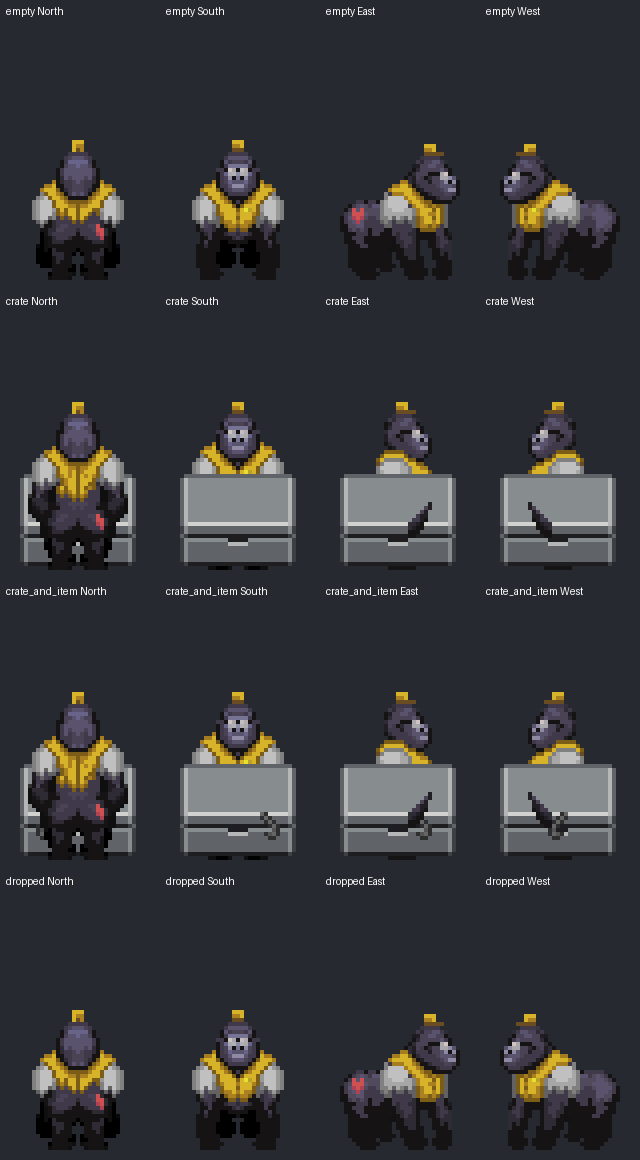
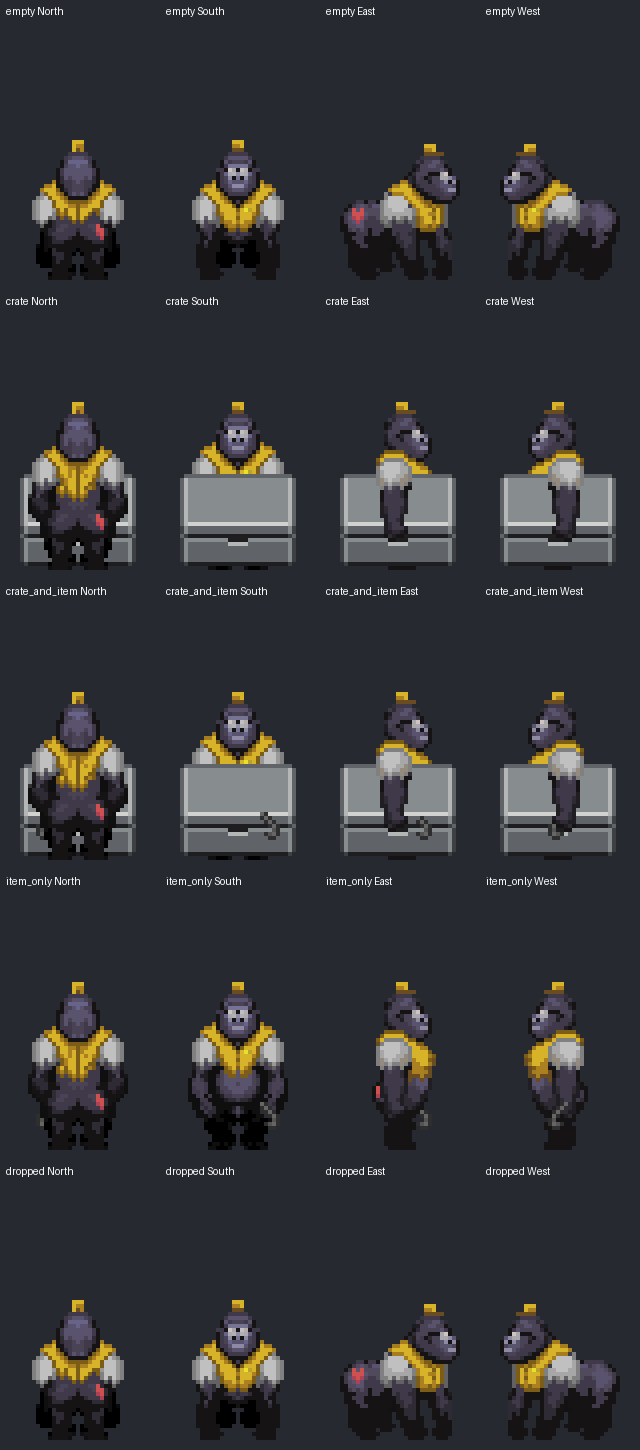
Fix cargorilla crate carrying arm overlays

diff --git a/README.md b/README.md
@@ -56,3 +56,5 @@ The TGS DMAPI is licensed as a subproject under the MIT license.
 See the footer of [code/\_\_DEFINES/tgs.dm](./code/__DEFINES/tgs.dm) and [code/modules/tgs/LICENSE](./code/modules/tgs/LICENSE) for the MIT license.
 
 All assets including icons and sound are under a [Creative Commons 3.0 BY-SA license](https://creativecommons.org/licenses/by-sa/3.0/) unless otherwise indicated.
+
+The east/west arms in the `crate_overlay` state of `icons/mob/simple/cargorillia.dmi` are copied from [Paradise-SS220's `standing_overlay`](https://github.com/ss220club/Paradise-SS220/blob/0fffca1f1f29a63aff49d9b56524813eedf82c6d/icons/mob/cargorillia.dmi), introduced in [Paradise PR #20830](https://github.com/ParadiseSS13/Paradise/pull/20830), under CC BY-SA 3.0. These frames are used only while carrying crates; the original item-holding sprites are preserved.
